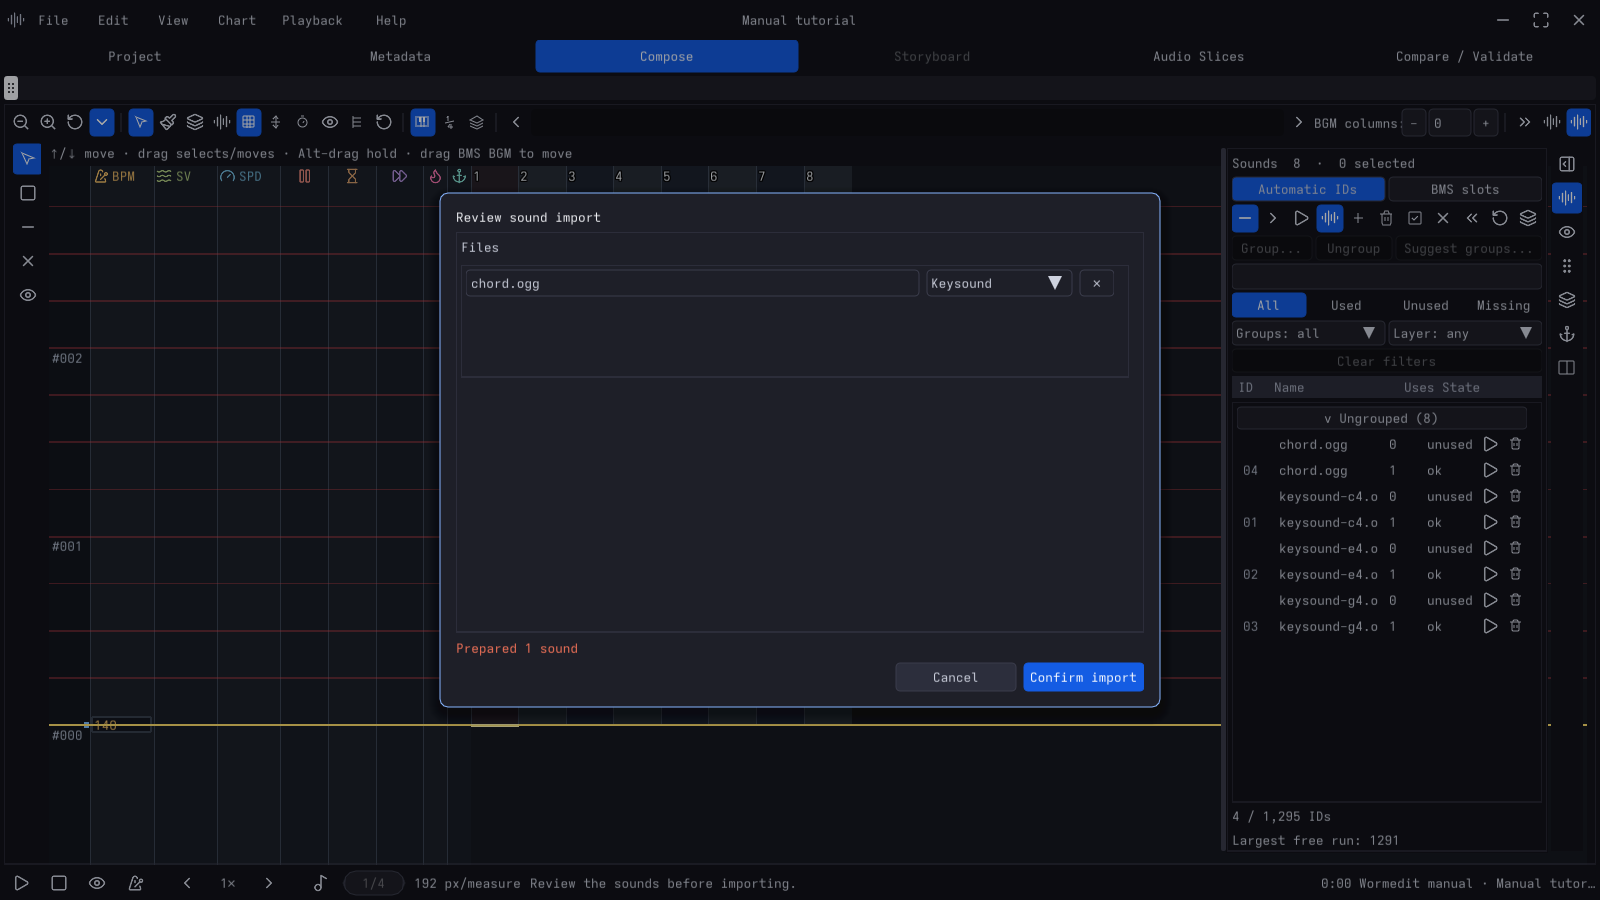
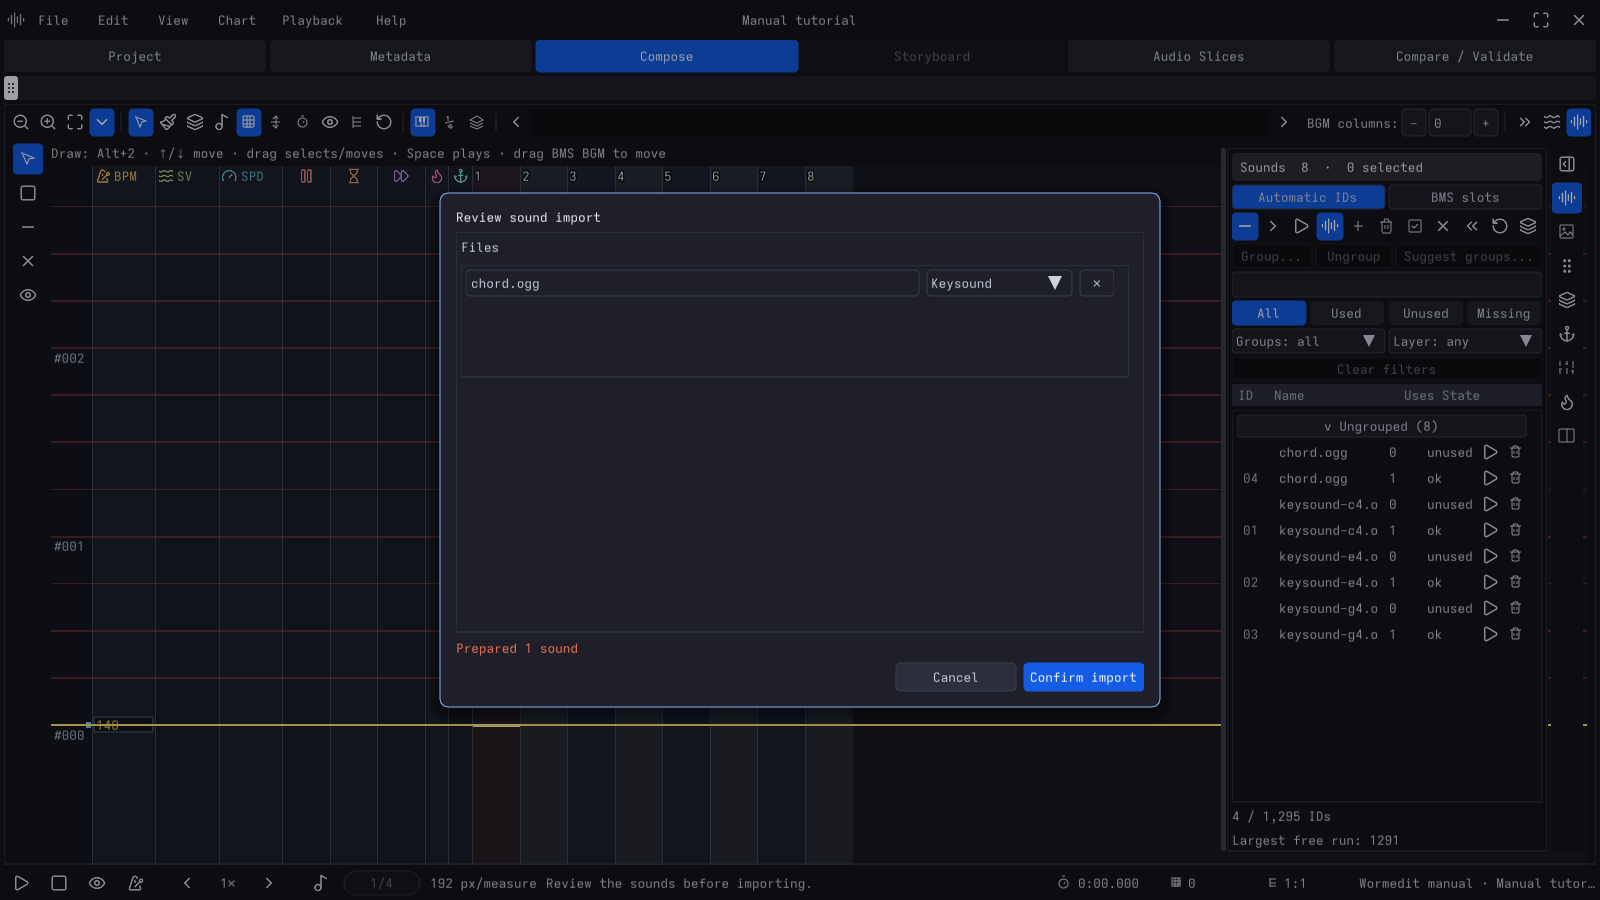
Write the 1.0.0-rc2 release notes and refresh the README and screenshots
Release notes cover upgrading from rc1 (re-export osu! charts with custom
hitsound files, schema 28, compact recovery journals, new dock panels),
what is new, the fixes and the unchanged known limitations. The README
and building guide point at rc2; building.md notes that an existing build
directory keeps its cached version suffix.

All manual screenshots are recaptured after the panel redesigns. The
sound-import shot clears GTK's inline location completion before
accepting the fixture path. The README hero caption now describes what
the shot shows.

diff --git a/docs/release-notes/1.0.0-rc2.md b/docs/release-notes/1.0.0-rc2.md
@@ -1,0 +1,107 @@
+# Wormedit 1.0.0-rc2 release notes
+
+The second release candidate of Wormedit 1.0, a rhythm chart editor for BMS, BMSON,
+StepMania and osu!mania. It fixes what rc1 testers and the maintainer's own charting turned up,
+makes crash recovery cheap enough for large charts, and reworks much of the interface. Please
+keep trying it on real charts and report what breaks before 1.0.0.
+
+## Downloads and requirements
+
+| Platform | Download | Requirements | Status |
+| --- | --- | --- | --- |
+| Windows | `wormedit-1.0.0-rc2-windows-x64.zip` | 64-bit Windows; a GPU with Direct3D 12 or Vulkan | Packaged and checked under Wine; please report results from real Windows machines |
+| Linux | `wormedit-1.0.0-rc2-x86_64.AppImage` | x86_64, glibc 2.35 or newer (Ubuntu 22.04 era and later), X11 or Wayland, a working Vulkan driver | Packaged and checked |
+| macOS | Build it yourself with `scripts/macos-package.sh` (see `docs/building.md`) | Apple Silicon or Intel, Xcode Command Line Tools, Homebrew | No download; rc1 was verified on Apple Silicon, rc2 not yet |
+
+Unzip the Windows package anywhere and run `wormedit.exe`. Make the AppImage executable
+(`chmod +x`) and run it. Both include the offline user manual (**Help → User manual**), the
+Lua API reference, the manual's exercise files and the third-party license notices.
+
+**macOS builds are not signed or notarized.** On first launch, right-click the app and choose
+**Open**, or use **System Settings → Privacy & Security → Open Anyway**. A build made with
+Homebrew's FFmpeg is for your own use only; it is not redistributable.
+
+## Upgrading from rc1
+
+- **Re-export osu!mania charts that use custom hitsound files.** rc1 quoted the `hitSample`
+  field, which osu! reads as part of the first number. rc2 writes osu!'s own comma-separated
+  form.
+- rc2 writes **project schema 28** (rc1 wrote 25). rc1 projects are upgraded when opened; rc1
+  refuses a project saved by rc2, so keep a copy if you may go back.
+- Recovery journals now use a compact format. Journals left by rc1 are still read.
+- Saved dock layouts gain the new **Mixer** and **Generator** panels at the end.
+
+## What's new
+
+- **Recovery that keeps up with big charts.** The journal records only what each edit changed,
+  keyed by stable identity, with periodic full snapshots. Moving one note in a dense BMS chart
+  went from a 24 MB record and about 1.4 s of background work to a few hundred bytes. Project
+  saves are compact as well.
+- **Mixer dock.** Music, BGM, Keysounds and Hitsounds buses under a Master level, each with
+  level (decibel taper), mute and solo, applied live during playback. The mix is session state:
+  it never changes the project or exports.
+- **osu!mania hitsounds.** Optional volume, sample-set and addition-set columns beside the
+  notes, and per-map sample overrides named like osu! skin samples (`soft-hitclap.wav`,
+  `drum-hitnormal3.ogg`) that play in the editor and are copied beside the exported chart.
+- **Interface.** Sections are rounded bars and cards; dock panels have filled headers; the
+  Inspector is regrouped (Measure at cursor, Lane layout, Timing with Tempo, Audio offset and
+  Timing event cards); the **BMS branches** panel is an icon tree with an action bar and
+  collapsible node details; Project, Metadata and the recovery panel are laid out for wide
+  screens. New desktop- and osu!-inspired color schemes; disabled controls are legible in light
+  themes; text wraps between words.
+- **Lua note generator** moved from the Inspector to its own **Generator** dock panel.
+- **Open project folder** in the File menu and the command palette.
+
+## Fixes
+
+- **BMS:** flat (branch-free) BMS imports stay in one editable Chart, keeping comments, blank
+  lines and unknown statements in place. Lane-key note moves and sound-layer membership work in
+  prepared BMS charts, and edits to large BMS charts reuse unchanged projections instead of
+  recomputing them.
+- **BMSON:** opening errors name the chart file and the offending resource and JSON field.
+- **Export cuts:** the shortened song is encoded as MP3 or Ogg Vorbis (chosen per export
+  target); the uncut source music is no longer copied beside it; holds that cross a cut are kept,
+  and omissions are reported per group. StepMania exports use standard four-beat bars on a
+  bounded 192-row grid and report any rounding.
+- **Export:** Export All and the replace/skip choices work from every tab, not only Compose.
+- **Compose:** releasing a lane key over removed notes extends them into a hold; hold clearing
+  and layered-hold merging; snap navigation after lane-key edits and after playback; paint
+  ghosts in blank virtual measures; continuous lane decorations with fixed headers; the field is
+  no longer squeezed by wide side panels; note-kind and hitsound palette buttons are no longer
+  clipped.
+- **Playback:** the player preview stays in sync across audio cuts; latched autoscroll keeps its
+  speed.
+- **Inspector:** SV-recipe graph axes stay put while scrolling; text fields keep focus while a
+  tooltip is shown; light-theme Mixer contrast and selection highlights.
+- **Recovery:** display-watchdog logs no longer show up as recovery candidates.
+
+## Known limitations
+
+Unchanged from rc1:
+
+- **Audio Slices tab:** unfinished; expect its workflow and layout to change before 1.0.0.
+- **Compare / Validate tab:** usable, but rough.
+- **Storyboard tab:** disabled. osu! storyboards (`.osb`), the OSBX format and storyboard video
+  export are planned, not shipped.
+- **Formats not yet supported:** Quaver (`.qua`), StepMania rolls authoring and SSC
+  `TICKCOUNTS`, and Standard MIDI import and export.
+- **Sounds:** one sound per note. Layered multi-voice sounds and BMSON layered authoring are
+  planned.
+- **Interface language:** English only. Japanese, Chinese and Korean text in charts and file
+  names displays correctly, but the interface is not translated.
+- **Lane layouts:** Metadata's key-count selector lists **Custom** but it is disabled until a
+  per-lane mapping editor exists. BMSON 48K charts have no per-stage focus for lane keys.
+- **BMS repair:** malformed `#IF`/`#RANDOM`/`#SWITCH` blocks are preserved exactly on export,
+  but Wormedit does not yet offer repair suggestions for them.
+- **Diagnostics:** import warnings and export losses are listed in notifications, but cannot
+  jump to the affected note yet.
+- **Icon:** the application icon is a placeholder.
+
+## Reporting problems
+
+Open an issue at <https://github.com/zardoru/wormedit/issues>. Include your operating system,
+GPU and driver version, the exact error text, and, if you can, the project or chart that shows
+the problem. The manual's troubleshooting chapter lists the messages Wormedit reports and what
+to check first.
+
+**Full changes:** <https://github.com/zardoru/wormedit/compare/v1.0.0-rc1...v1.0.0-rc2>

diff --git a/docs/building.md b/docs/building.md
@@ -5,16 +5,18 @@ The headless core and its tests build without a window or GPU; the application i
 ## Release versions
 
 The numeric CMake `PROJECT_VERSION` is `1.0.0`. `WORMEDIT_VERSION_SUFFIX` defaults
-to `-rc1`; the normal CMake variable `WORMEDIT_VERSION_FULL` joins them as
-`1.0.0-rc1`. The configured `config.h` exposes that full `WORMEDIT_VERSION` and
+to `-rc2`; the normal CMake variable `WORMEDIT_VERSION_FULL` joins them as
+`1.0.0-rc2`. The configured `config.h` exposes that full `WORMEDIT_VERSION` and
 separate numeric `WORMEDIT_VERSION_MAJOR`, `MINOR` and `PATCH` macros. About and
 Windows archive names use the full version. Suffix characters are limited to
-`[-.0-9A-Za-z]`.
+`[-.0-9A-Za-z]`. The suffix is a cache variable, so an existing build directory keeps
+the suffix it was first configured with after the default changes; pass
+`-DWORMEDIT_VERSION_SUFFIX=<suffix>` again when reusing one for a new release.
 
 For a final release, configure with `cmake -S . -B build -DWORMEDIT_VERSION_SUFFIX=`.
 For the Windows package, pass `CMAKE_ARGS=-DWORMEDIT_VERSION_SUFFIX=` to the
-package script. This produces `wormedit-1.0.0-windows-x64.zip`; RC1 produces
-`wormedit-1.0.0-rc1-windows-x64.zip`.
+package script. This produces `wormedit-1.0.0-windows-x64.zip`; RC2 produces
+`wormedit-1.0.0-rc2-windows-x64.zip`.
 
 ## Native headless build
 
@@ -181,7 +183,7 @@ WORMEDIT_BUILD_JOBS=3 scripts/windows-cross-package.sh
 
 The SDK is installed into `build/windows-ffmpeg/prefix`. The package script configures
 and builds `build/windows-cross-release`, stages into `build/windows-cross-stage`,
-and writes `build/dist/wormedit-1.0.0-rc1-windows-x64.zip` and its SHA-256 sidecar.
+and writes `build/dist/wormedit-1.0.0-rc2-windows-x64.zip` and its SHA-256 sidecar.
 Pass an output directory as the package script's first argument to change `build/dist`.
 The explicit three-job limit is suitable when sharing the machine with other release lanes.
 The package command reconfigures an existing build too; confirm
@@ -226,8 +228,8 @@ Wine's helper windows on the isolated display:
 
 ```sh
 wine_work=$(mktemp -d /tmp/wormedit-wine-release.XXXXXX)
-unzip -q build/dist/wormedit-1.0.0-rc1-windows-x64.zip -d "$wine_work"
-package="$wine_work/wormedit-1.0.0-rc1-windows-x64"
+unzip -q build/dist/wormedit-1.0.0-rc2-windows-x64.zip -d "$wine_work"
+package="$wine_work/wormedit-1.0.0-rc2-windows-x64"
 cp -R "$package/manual/fixtures/tutorial" "$wine_work/ascii"
 cp -R "$wine_work/ascii" "$wine_work/曲"
 xvfb-run -a -s '-screen 0 1440x1000x24 -nolisten tcp' \
@@ -285,7 +287,7 @@ brew install cmake ninja pkgconf asciidoctor python ffmpeg
 git submodule update --init --recursive
 scripts/macos-package.sh
 # Optional output directory and version override (empty suffix for a final release):
-# scripts/macos-package.sh build/dist -DWORMEDIT_VERSION_SUFFIX=-rc1
+# scripts/macos-package.sh build/dist -DWORMEDIT_VERSION_SUFFIX=-rc2
 ```
 
 CMake must be at least 4.2 (libotoworm's requirement). The script probes the
@@ -309,7 +311,7 @@ separate verification on that OS. This is a single-architecture build, with no
 claim of compatibility with older Macs or macOS versions.
 
 Output is `build/dist/Wormedit-<full-version>-macos-<arch>.zip` and a SHA-256
-sidecar. The full version is `WORMEDIT_VERSION_FULL` (`1.0.0-rc1`); both plist version fields stay
+sidecar. The full version is `WORMEDIT_VERSION_FULL` (`1.0.0-rc2`); both plist version fields stay
 numeric (`1.0.0`). The archive contains `Wormedit.app`; it has an ad-hoc signature, with no
 Developer ID, notarization, hardened runtime or entitlements. The script signs
 nested libraries after rewriting paths and verifies the complete signature.

diff --git a/README.md b/README.md
@@ -2,10 +2,10 @@
 
 **A rhythm chart editor for BMS, BMSON, StepMania and osu!mania, built for charting fast.**
 
-![Compose with a keysounded BME chart: timing lanes, eight playable lanes, a BGM column and the Sounds dock](docs/manual/images/compose-overview.png)
+![Compose on a new BME project: timing lanes, eight playable lanes and the Sounds dock](docs/manual/images/compose-overview.png)
 
-> **Status: release candidate (1.0.0-rc1).** Wormedit is used to make real charts; 1.0.0 follows
-> once this candidate has been tried widely. See the [release notes](docs/release-notes/1.0.0-rc1.md)
+> **Status: release candidate (1.0.0-rc2).** Wormedit is used to make real charts; 1.0.0 follows
+> once this candidate has been tried widely. See the [release notes](docs/release-notes/1.0.0-rc2.md)
 > for downloads and known limitations. Storyboards and Quaver support are planned but not
 > shipped. Work is tracked as task cards in [`docs/chart-editor-plan/`](docs/chart-editor-plan.md).
 
@@ -57,9 +57,11 @@ teaches this loop first.
   StepMania speeds and osu!mania kiai in timing lanes beside the notes; bar lines you split, merge
   and move like notes (`Ctrl+M` toggles one at the cursor); tap tempo, waveform beat fitting, a
   metronome, timing lock and SV recipes.
-- **Audio.** Streaming playback with waveforms, per-note audition, BGM lane mute and solo,
-  playback from 0.1× to 1×, with or without pitch change; BPM-grid slicing of long sounds into
-  keysounds, and preview-audio export with trimming and fade-out.
+- **Audio.** Streaming playback with waveforms, per-note audition, BGM lane mute and solo, a
+  Mixer with Music, BGM, Keysounds and Hitsounds levels, playback from 0.1× to 1×, with or
+  without pitch change; osu!mania hitsounds with per-note volume and sample sets and per-map
+  sample overrides; BPM-grid slicing of long sounds into keysounds, and preview-audio export
+  with trimming and fade-out.
 - **BMS depth.** Legacy Shift-JIS and other encodings, `#RANDOM`/`#IF`/`#SWITCH` branches, BGM
   columns, numbered `#WAV` slot import, and paste from **iBMSC and BMSE** (and tools that write
   their clipboard format).
@@ -84,7 +86,7 @@ explicit choice; `target_profile` controls the output profile separately.
 ## Getting wormedit
 
 Release candidates ship a Windows ZIP and a Linux AppImage; see the
-[release notes](docs/release-notes/1.0.0-rc1.md). macOS users build the app bundle with
+[release notes](docs/release-notes/1.0.0-rc2.md). macOS users build the app bundle with
 `scripts/macos-package.sh`. Wormedit is developed on Linux. Windows builds are cross-compiled
 with MinGW-w64 and packaged as a ZIP by `scripts/windows-cross-package.sh`; the AppImage is
 built by `scripts/linux-appimage.sh`. CI builds and tests the headless core on Linux (GCC and Clang)
@@ -141,7 +143,7 @@ Start with [`docs/architecture.md`](docs/architecture.md) (the edit pipeline) an
 | `tests/` | Catch2 tests and the windowless [frontend event harness](docs/frontend-event-harness.md) |
 | `docs/` | Manual, plan and task cards, building guide, format references |
 
-`scripts/gate.sh` builds, runs the whole suite (over 4,000 tests), and checks function complexity
+`scripts/gate.sh` builds, runs the whole suite (over 5,500 tests), and checks function complexity
 and whitespace; run it before sending a change.
 
 ## AI-assisted development
